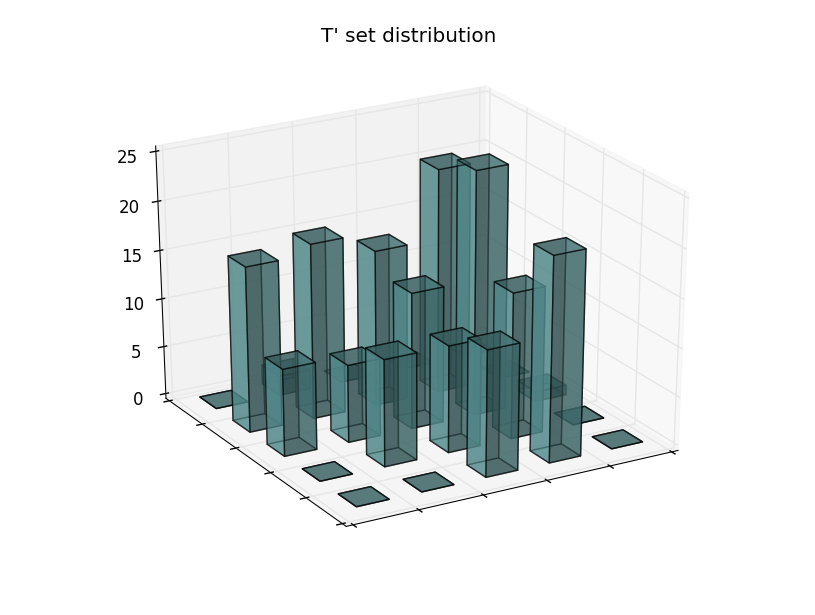
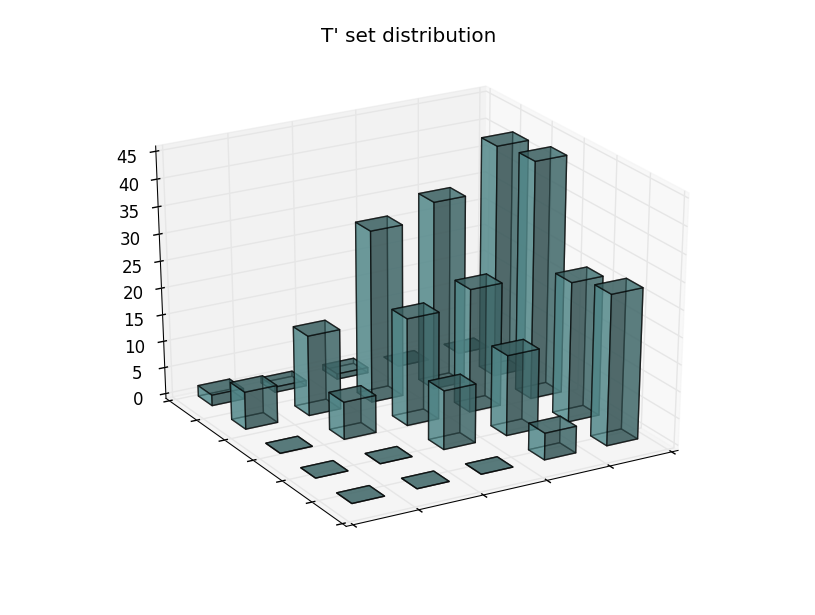
text

Changed region(s): [[0.2454, 0.2163, 0.7975, 0.8341], [0.1534, 0.278, 0.184, 0.6179], [0.1227, 0.2472, 0.1534, 0.278]]

diff --git a/thesis/ITMO/parts/chapter2.tex b/thesis/ITMO/parts/chapter2.tex
@@ -1,9 +1,30 @@
 \chapter{Описание предлагаемого подхода}
 \label{chapter2}
 
+Задача данной главы - описание задачи Needle, подходов к её решению, а так же уже полученные временные оценки, основанные на принципе минимакса. Важной частью данной главы является описание применения к задаче black-box подхода.
+
 \section{Рассматриваемая оптимизационная задача}
+
+Прежде чем описывать задачу, введем некоторые вспомогательные утверждения:
+
+\begin{prop}[Принцип минимакса Яо\cite{5}]
+Если задача состоит из конечного набора экземпляров фиксированного размера и допускает конечное множество детерминированных алгоритмов, тогда матожидание времени работы рандомизированного алгоритма не меньше, чем среднее (по экземплярам задачи) время работы лучшего детерминированного алгоритма.
+\end{prop}
+
+
+\begin{prop}
+Если black-box задача определена на пространстве поиска $S$, сложность black-box сложность ограничена сверху $ \frac{(| S | + 1)}{2}$ \cite{2}.
+\end{prop}
+
+
+
+\begin{proof}
+    Мы создаем равномерно случайную перестановку S и запрашиваем точки поиска в этом случайном порядке. Для каждого $s \in S$ время ожидания запроса равно  $ \frac{(| S | + 1)}{2}$.
+\end{proof}
+
+
 \subsection{Задача Needle}
-Задача Needle, которую иначе можно назвать "иголка в стоге сена", сформулирована следующим образом: 
+Рассматриваемая в работе задача в области оптимизационных алгоритмов известна как "иголка в стоге сена". Формальное задача сформулирована следующим образом: 
 
 Для всех $z \in \{0, 1\}^n \;\;\; $  
     \begin{math} 
@@ -15,13 +36,19 @@
 
 Needle является одной из сложных задач, так как за каждый запрос алгоритм получает лишь знание, совпадает ли запрос с оптимумом или нет, и никаких выводов о других запросах сделать не может. 
 
-Вычислительная сложность Needle по отношению ко всем возможным
-алгоритмам равна \frac{2^n + 1}{2}. Это следует из принципа минимакса Yao \cite{5} время работы какого-либо алгоритма не превосходит среднего времени
-работы (усредняемого по всем задачам класса) лучшего из детерминированных алгоритмов. Так как за каждый запрос алгоритм получает лишь знание, совпадает ли запрос с оптимумом или нет, то никаких выводов о других запросах он сделать не может, и единственное, что он может сделать - не запрашивать уже запрошенное повторно. Таким образом, лучший детерминированный алгоритм просто делает все возможные запросы по порядку, и среднее число запросов до оптимума - ровно $\frac{2^n + 1}{2}$
+\newtheorem{theorem}{Теорема}
+\begin{myth}
+Black-box сложность задачи Needle равна $\frac{2^n + 1}{2}$.
+\end{myth}
+\begin{proof}
+    Вехняя оценка сложности следует из Утверждения 4. Нижнюю оценку можно получить из принципа минимакса Яо, прописанного в Утверждении 3. Мы считаем равномерное распределение на всей $N_a$, где $a \in S$. После того, как будут запрошены m точек множества без определения оптимума задачи, все остальные $|S| - m$ точек имеют ту же вероятность быть оптимумом. Следовательно, каждая детерминированная стратегия поиска запросов равняется $\frac{2^n + 1}{2}$ различных точек пространства поиска.
+\end{proof}
+
+Так как за каждый запрос алгоритм получает лишь знание, совпадает ли запрос с оптимумом или нет, то никаких выводов о других запросах он сделать не может, и единственное, что он может сделать - не запрашивать уже запрошенное повторно. Таким образом, лучший детерминированный алгоритм просто делает все возможные запросы по порядку, и среднее число запросов до оптимума - ровно $\frac{2^n + 1}{2}$
 
 Такое же время работы у алгоритма, который генерирует случайную перестановку чисел от 0 до $(2^n - 1)$ и спрашивает их в этом порядке. Верхняя и нижняя оценка совпадают.
 
-Идеи решения задачи Needle могут помочь в будущем в исследовании других задач, в частности, оценить разрешению прохода по плато \cite{6}, 
+Так как решение задачи Needle в рамках black-box сложности не зависят от самой задачи, то найденные идеи решения задачи могут помочь в будущем в исследовании других задач, в частности, оценить разрешению прохода по плато \cite{6}, достаточно часто встречающееся в оптимизационных задачах. 
 
 \subsection{Описание подхода}
 Будем рассматривать классы алгоритмов для операторов на несмещенных сложностях. Решения, принимаемые алгоритмом, могут зависеть только от наблюдаемых значений функции, но не от самих точек. Так же алгоритм может делать  запросы, полученные только при помощи несмещенных операторов, обладающих двумя свойствами: инвариантностью относительно перестановки и инвариантностью относительно побитового исключающего или. 
@@ -50,7 +77,7 @@ Needle является достаточно простой в обычном с
 
 \chapterconclusion
 
-В данной главе была постановлена решаемая задача, а так же ожидаемые к ней подходы в модели несмещенной blcak-box сложности. Так же были описаны уже существующие решения и оценки их работы, что демонстрирует научную новизну представленной работы. 
+В данной главе была постановлена решаемая задача, а так же ожидаемые к ней подходы в модели несмещенной blaсk-box сложности. Так же были описаны уже существующие решения и оценки их работы, что демонстрирует научную новизну представленной работы. 
 
 
 

diff --git a/thesis/ITMO/parts/op/unary.tex b/thesis/ITMO/parts/op/unary.tex
@@ -3,7 +3,10 @@
 %описание оператора и принципа
 В силу того, что унарный несмещенный оператор может изменять только один случайный бит в векторе, в модели генетических алгоритмов он представляет собой оператор мутации. 
 
-(Не хватает немного)
+\begin{figure}[H]
+ }\label{fig2}
+    \includegraphics[height=4cm]{ITMO/pic/un.png}
+\end{figure}
 
 Разобъем все пространство поиска на некоторые классы векторов, где каждый шаг - это расстояние между первоначальным вектором и векторами этого множетсва, то есть, количество отличающихся бит. Классы будут генерироваться слеующим образом: 
 \begin{itemize}
@@ -16,6 +19,7 @@
    \item $D_n$ - размер 1, \bar{q_0}
 \end{itemize} 
 
+Введем следующее: $E(d, i)$ - матожидание от числа различных запросов на расстояние d, если на этом расстоянии сделано i запросов.
 
 \newtheorem{theorem}{Теорема}
 \begin{myth}
@@ -59,4 +63,67 @@
 
 %здесь будет вставка от Дена для увеличения объема работы. Не знаю, пригодится ли дальше это, но пока пусть будет.
 
-(доделать доказательство, доделать разбор вероятностей по классам)
+
+Для дальнейшего использования введем дополнительнно несколько дополнительных материалов.
+
+\textbf{Лемма}
+
+Дана последовательность множеств неотрицательных вещественных чисел $\{a_i^j\}_{i \in X, j \in N}$.
+
+Тогда верно, что $$\inf_{i \in X} \lim_{j \to +\infty} a_i^j \ge \lim_{j \to +\infty} \inf_{i \in X} a_i^j$$.
+
+\textbf{Доказательство}
+
+По определению инфимума:
+
+$$a_i^j \ge \inf_{k \in X} a_k^j \forall i, j$$
+
+Тогда по предельному переходу в неравенствах (если члены одной последовательности не превосходят членов другой последовательности, то и предел первой не превосходит предел второй):
+
+$$\lim_{j \to +\infty} a_i^j \ge \lim_{j \to +\infty} \inf_{k \in X} a_k^j \forall i$$
+
+Так как это верно для любого $i$, то неравенство остается верным, если слева взять инфимум по всем $i$:
+
+$$\inf_{i \in X} \lim_{j \to +\infty} a_i^j \ge \lim_{j \to +\infty} \inf_{i \in X} a_i^j$$
+
+лемма доказана
+
+\newtheorem{theorem}{Теорема}
+\begin{myth}
+Пусть даны две бесконечные последовательности $\{a_i\}_{i = 0}^{+\infty}$ и $\{b_i\}_{i = 0}^{+\infty}$.
+
+Пусть при этом первая может быть упорядочена по возрастанию (для любого элемента множество меньших элементов конечно), а вторая -- по убыванию (для любого элемента конечно множество больших элементов).
+
+Тогда в случае сходимости ряда $\sum_{i = 0}^{+\infty} a_i b_i$ минимальное значение его суммы достигается, когда первая последовательность отсортирована по возрастанию, а вторая -- по убыванию
+\end{myth}
+
+\begin{proof}
+    
+
+Будем считать, что $\{b_i\}_{i = 0}^{+\infty}$ уже упорядочена по возрастанию (это можно сделать вследствие того, что смена порядка членов ряда с неотрицательными членами не меняет его суммы). Тогда нам требуется только найти перестановку $\{a_i\}$, минимизирующую их скалярное произведение. Далее для краткости вместо $\inf_{\textit{for all permutations of }a_i}$ будем писать просто $\inf$.
+
+Итак, по определению ряда:
+
+$$\inf \sum_{i = 0}^{+\infty} a_i b_i = \inf \lim_{n \to +\infty} \sum_{i = 0}^{n} a_i b_i.$$
+
+По лемме:
+
+$$\inf \lim_{n \to +\infty} \sum_{i = 0}^{n} a_i b_i \ge \lim_{n \to +\infty} \inf \sum_{i = 0}^{n} a_i b_i.$$
+
+Далее нам для достижения минимума надо взять минимальные $n$ элементов из $a_i$. Как легко доказать для случая не с последовательностями, а с конечномерными векторами, для достижения инфимума отсортировать их надо по возрастанию (так как $\{b_i\}$ уже отсортированы по убыванию). Тогда если $\{c_i\}$ -- отсортированная по возрастанию последовательность $\{a_i\}$, то
+
+$$\lim_{n \to +\infty} \inf \sum_{i = 0}^{n} a_i b_i = \lim_{n \to +\infty} \sum_{i = 0}^{n} c_i b_i.$$
+
+А по определению суммы ряда
+
+$$\lim_{n \to +\infty} \sum_{i = 0}^{n} c_i b_i = \sum_{i = 0}^{+\infty} c_i b_i.$$
+
+Таким образом, мы показали, что 
+
+$$\inf \sum_{i = 0}^{+\infty} a_i b_i \ge \sum_{i = 0}^{+\infty} c_i b_i.$$
+
+Так как правая часть является элементом множества, по которому берется инфимум слева, то она не может быть меньше, а следовательно, обе части неравенства равны. Так как $\{c_i\}$ -- отсортированная по возрастанию $\{a_i\}$, то теорема доказана.
+
+\end{proof}
+
+Рассмотрим все классы пространства поиска. Заметим, что так как каждый класс содержит векторы, отличающиеся на i бит от изначальной особи, то 

diff --git a/thesis/ITMO/parts/op/ternary.tex b/thesis/ITMO/parts/op/ternary.tex
@@ -16,13 +16,13 @@
 \begin{algorithm}[H]
 \caption{Тернарный алгоритм}\label{lst1}
 \begin{algorithmic}
-        \State q_0 \leftarrow random
-        \State s_1 \leftarrow $flipOne(q_0)$
+        \State $q_0$ \leftarrow $\textrm{random}$ \\
+        \State $s_1$ \leftarrow $flipOne(q_0)$
 		\While{true}
-	        \State s_2 \leftarrow $flip'(q_0, s_1)$
-            \State t_2 \leftarrow $xor3(q_0,s_1,s_2)$
-            \State s_3 \leftarrow $flip'(q_0, t_2)$
-            \State t_3 \leftarrow $xor3(q_0,s_2,s_3)$
+	        \State $s_2$ \leftarrow $flip'(q_0, s_1)$
+            \State $t_2$ \leftarrow $xor3(q_0,s_1,s_2)$
+            \State $s_3$ \leftarrow $flip'(q_0, t_2)$
+            \State $t_3$ \leftarrow $xor3(q_0,s_2,s_3)$
             \State ...
 		\EndWhile
 \end{algorithmic}
@@ -31,16 +31,13 @@
 Таким образом формируется полное пространство поиска: 
 \begin{example}
 Пример генерации пространства для q_0 = [000...000]  \\
-    q_0 = \{00000..0000\} \\
-    s_1 = \{00000..0001\} \\
-    s_2 = \{00000..0010\} \\
-    t_2 = \{00000..0011\} \\
-    s_3 = \{00000..0100\} \\
-    t_3 = \{00000..0101\} \\
-    ... \\
-    t_k = \{10000..0000\} \\
-    ... \\
 \end{example}
+
+\begin{figure}[H]
+%\caption{Пример генерации множества поиска для q0}\label{fig2}
+    \includegraphics[height=7cm]{ITMO/pic/tern0.png}
+\end{figure}
+
 
 %Размазано и непонятно. Переписать точно.
 Таким образом пошагово генерируется все множество поиска без повторов. Сложность такого алгоритма равняется O($\frac{2^n + 1}{2}$), что равняется времени перебора всех векторов без повторов. Таким образом, верхняя и нижняя оценки сложности алгоритма совпадают. 
@@ -49,14 +46,32 @@
 %Что-то вроде примера 
 Рассмотрим класс некоторых задач, таких что экземпляром данной задачи является битовая строка из пространства поиска, размера $2^n$ от длины строки n. При этом у задачи существует единственный глобальный оптимум (при этом  наличие других оптимумов не важно). К таким задачам относится, например, OneMax.
 
+Задачи данного класса должны имееть примерно такой тип:
+$$P = \{..2^n \textrm{instanses with bitwise} ... \}$$
+
+Пусть существует оптимальный детерминированный алгоритм, который в среднем по всем экзеплярам выдает время работы T, при этом алгоритм не является black-box алгоритмом. 
+
+Пусть $q_0$ - рандомизированный вектор, подающийся на вход алгоритму.
+
+Тогда дерево решений данного алгоритма выглядит так: 
+
 \begin{figure}[H]
 \caption{Дерево решений детерминированного алгоритма}\label{fig2}
     \includegraphics[height=5cm]{ITMO/pic/graph1.png}
 \end{figure}
 
+Возьмем произвольный вектор z и проксорим его с каждым решением из приведенного выше дерева. Таким образом все равно получится оптимальный детерминированны алгоритм, решающий данную задачу, но выглядеть он будет уже иначе, допустим, так: 
 
 \begin{figure}[H]
 \caption{Дерево решений другого оптимального алгоритма}\label{fig2}
-    \includegraphics[height=10cm]{ITMO/pic/graph2.png}
+    \includegraphics[height=5cm]{ITMO/pic/graph2.png}
 \end{figure}
+
+Тогда моделизируем процесс. 
+$q_0$ - так и остается рандомизированным вектором.
+Исходя из дерева решений, известно, что переход в дереве от $q_1 \to q_2$ является не более чем изменением одного бита. 
+
+Так как при моделировании аллгоритма с тернарным оператором мы можем сгенерировать множество векторов, показанное в примере 3, то мы умеем получать переходы при изменении от одного бита к другому. 
+
+Тогда z больше не просто случайный вектор, а $z = q_0 \oplus q_1 $, что, таким образом, и будет являться переходом $q_1 \to q_2$ в дереве решений. А так как при применения $\oplus$ к вершине изначального дерева, так же получается детерминированный алгоритм, то учитывая построение множества, тогда несмщенный black-box алгоритм будет работать за $\leq(n + 1)T$
 

diff --git a/thesis/ITMO/parts/outro.tex b/thesis/ITMO/parts/outro.tex
@@ -1,5 +1,11 @@
 \startconclusionpage
 
-Результатом данной работы являются достаточно точные оценки на работу несмещенных операторов для Black-box сложности. Полученные оценки явно показывают, что задачу Needle можно разрешить быстрее, чем простым перебором. Идеи, использованные в доказательствах, могут быть использованы в будущем для других задач, к примеру, разрешения плато.
+Результатом данной работы являются достаточно точные оценки на работу несмещенных операторов для несмещенной black-box сложности. Были установлены верхняя и нижняя оценка на работу тернарного оператора. Так же было установлено, что необходимости рассматривать операторы больше нет, то есть при k = 3 достигается оптимальное значение. Тернарный оператор можно применять к некоторым классам задач, так как алгоритм, использующий таковые, работает не хуже оптимальных детерминированных алгоритмов.  
 
-Среди открытых вопросов остаются нижние оценки для бинарных и унарных операторов, которые получить гораздо сложнее.
+Так же были проделаны исследования бинарного и унарного операторов. Были установлены некоторые ограничения на работу бинарного оператора, а так же предложен алгоритм работы с бинарным оператором. Более точные оценки еще предстоит получить.
+
+Был разработан алгоритм работы унарного оператора, а так же получение всего пространства поиска для алгоритма, использующего таковой. Результатом исследования унарного оператора стала верхняя оценка на количество запросов данного алгоритма к пространству поиска. 
+
+Полученные оценки явно показывают, что задачу Needle можно разрешить быстрее, чем простым перебором. Идеи, использованные в разработанных алгоритмах, могут быть использованы в будущем для других задач, к примеру, разрешения плато, которое встречается во многих оптимизационных задачах.
+
+Среди открытых вопросов остаются нижние оценки для бинарных и унарных операторов.

diff --git a/thesis/ITMO/parts/op/binary.tex b/thesis/ITMO/parts/op/binary.tex
@@ -75,7 +75,7 @@ $$L_0 = \langle \{\{ 1...n \}\}, \{0\} \rangle $$
 
 \begin{figure}[H]
 \caption{Распределение для n = 6}\label{fig1}
-    \includegraphics[height=10cm]{ITMO/pic/figure_6.png}
+    \includegraphics[height=10cm]{ITMO/pic/fig6_n.png}
 \end{figure}
 
 Для улучшения результатов, применим к получившемся множествам некоторые преобразования. Сравним некоторые множества $T_{ijkl}$ между собой на наличие повторяющихся строк следующим образом: 
@@ -99,7 +99,7 @@ $$L_0 = \langle \{\{ 1...n \}\}, \{0\} \rangle $$
 
 \begin{figure}[H]
 \caption{Выборка непересекающихся множеств для n = 6, подход 1 }\label{fig2}
-    \includegraphics[height=10cm]{ITMO/pic/fig666.png}
+    \includegraphics[height=10cm]{ITMO/pic/fig6_mod2.png}
 \end{figure}
 
 
@@ -108,6 +108,29 @@ $$L_0 = \langle \{\{ 1...n \}\}, \{0\} \rangle $$
 
 \begin{figure}[H]
 \caption{Выборка непересекающихся множеств для n = 6, подход 2 }\label{fig2}
-    \includegraphics[height=10cm]{ITMO/pic/figure666.png}
+    \includegraphics[height=10cm]{ITMO/pic/fig6_mod3.png}
 \end{figure}
 
+В результате вызыва алгоритма для особей маленьких размеров, было замечено, что размер множества с повторами от увеличения размера особи растет экспоненциально. В таблице представлены результаты запуска для некоторых векторов:
+
+\begin{table}[!h]
+\caption{Результаты работы алгоритма с бинарными операторами}\label{tab3:apx}
+\centering
+\begin{tabu}{|*{6}{X[c]|}}\hline
+n & 3 & 4 & 5 & 6 & 7  \\
+\hline
+set size & 8 & 16 & 32 & 64 & 128 \\
+\hline
+{T' size} & 64 & 256 & 1024 & 4096 & 16384  \\
+\hline
+{mod(T') size} & 11 & 36 & 73 & 144 & 302  \\
+\hline
+\end{tabu}
+\end{table}
+
+Так же ниже на рис. 7 приводится диаграмма по количеству полученных совпавших строк и количеству оставшихся после модификации (берется лучшее значение).
+
+\begin{figure}[H]
+\caption{Экспериментально полученные результаты}\label{fig2}
+    \includegraphics[height=10cm]{ITMO/pic/res_bin.png}
+\end{figure}

diff --git a/thesis/ITMO/master-thesis.tex b/thesis/ITMO/master-thesis.tex
@@ -139,9 +139,6 @@
 
 \begin{thebibliography}{9}
 \bibitem{1} Per Kristian Lehre, Carsten Witt. \textit{Black-box search by unbiased variation}. In Proceedings of Genetic and Evolutionary Computation Conference (GECCO’ 10), p. 1441– 1448. ACM, 2010.
-%\bibitem{einstein} Albert Einstein. \textit{Zur Elektrodynamik %bewegter K{\"o}rper}. (German) [\textit{On the electrodynamics of %moving bodies}]. Annalen der Physik, 322(10):891–921, 1905.
-
-%\bibitem{knuthwebsite} Knuth: Computers and Typesetting,\\\texttt{http://www-cs-faculty.stanford.edu/\~{}uno/abcde.html}
 
 \bibitem{2} Stefan Droste, Thomas Jansen, and Ingo Wegener. \textit{Upper and lower bounds for randomized search heuristics in black-box optimization}. Theory of Computing Systems, 39:525–544, 2006.
 
@@ -149,7 +146,7 @@
 
 \bibitem{4} B. Doerr and C. Winzen. \textitReducing the arity in unbiased black-box complexity}. Theor. Comput. Sci., 545:108–121, 2014 \\\texttt{http://arxiv.org/pdf/1203.4111.pdf}
 
-\bibitem{5} Andrew Chi-Chih Yao. \textit{Upper and lower bounds for randomized search heuristics in black-box optimization}. Probabilistic computations: Toward a unified measure of complexity (extended abstract). In FOCS, pages 222–227. IEEE Computer Society, 1977
+\bibitem{5} Andrew Chi-Chih Yao. \textit{Probabilistic computations: Toward a unified measure of complexity}. In FOCS, pages 222–227. IEEE Computer Society, 1977
 
 \bibitem{6} A. J. Ramirez, D. B. Knoester, B. H. Cheng, and P. K. Mckinley. \textit{Plato: a genetic algorithm approach to run-time reconfiguration in autonomic computing systems}. Cluster Computing, 14:229–244, 2011
 
